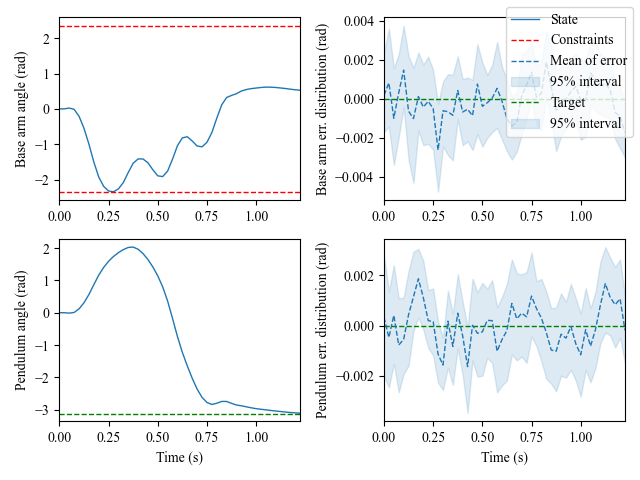
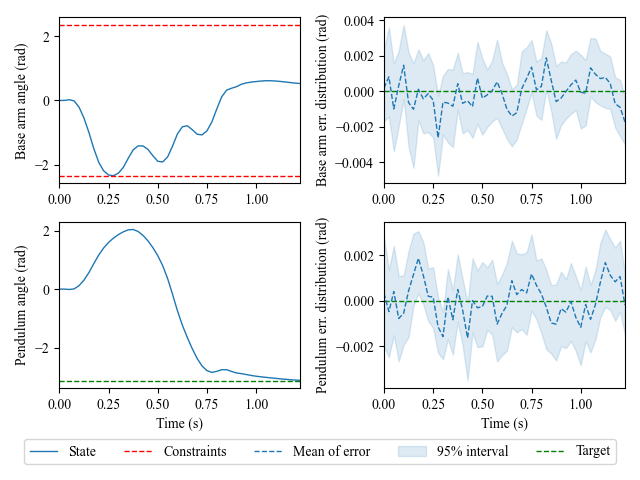
legend organisation

diff --git a/plot_pendulum_results.py b/plot_pendulum_results.py
@@ -230,7 +230,7 @@ if plotme1:
     plt.close()
     # plt.show()
 
-    ## PLOT ANGLES
+    ## ! PLOT ANGLES
     plt.subplot(2, 2, 1)
     # plt.plot(ts,z_sim[0,0,:-1],label='True',linewidth = 2.0,color='k')
     plt.plot(ts,xt_est_save[:,0,:].mean(axis=0), color=u'#1f77b4',linewidth = 1,label='State')
@@ -268,18 +268,18 @@ if plotme1:
     err = xt_est_save[:,1,:]-z_sim[1,0,:-1]
     plt.axhline(0.0, linestyle='--', color='g', linewidth=1.0)
     plt.plot(ts,err.mean(axis = 0), color=u'#1f77b4',linestyle='--',linewidth = 1)
-    plt.fill_between(ts,np.percentile(err,97.5,axis=0),np.percentile(err,2.5,axis=0),color=u'#1f77b4',alpha=0.15,label='95% interval')
+    plt.fill_between(ts,np.percentile(err,97.5,axis=0),np.percentile(err,2.5,axis=0),color=u'#1f77b4',alpha=0.15)
     plt.xlim([0,49*0.025])
     plt.ylabel('Pendulum err. distribution (rad)')
     plt.xlabel('Time (s)')
     # plt.legend(loc = 'upper right')
-    plt.figlegend(loc='upper right')
+    plt.figlegend(loc='upper center',bbox_to_anchor=[0.5, 0.1], ncol=5)
 
-    plt.tight_layout()
+    plt.tight_layout(rect=[0,0.07,1,1])
     plt.savefig('stills/plot_angles'+'.png',format='png')
     plt.close()
 
-    ## FULL STATE
+    ## ! FULL STATE
     fig = plt.figure(figsize=(6.4,9.6))
     plt.subplot(4, 2, 1)
     # plt.plot(ts,z_sim[0,0,:-1],label='True',linewidth = 2.0,color='k')
@@ -372,7 +372,7 @@ if plotme1:
     plt.savefig('stills/plot_states'+'.png',format='png')
     plt.close()
 
-    ## PARAMS
+    ## ! PARAMS
     ind = 0
     plt.plot(ts,theta_est_save[:,ind,:].mean(axis=0),color=u'#1f77b4',label='Sample mean',linewidth=1)
     plt.fill_between(ts,np.percentile(theta_est_save[:,ind,:],97.5,axis=0),np.percentile(theta_est_save[:,ind,:],2.5,axis=0),color=u'#1f77b4',alpha=0.15,label='95% CI')
